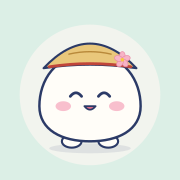
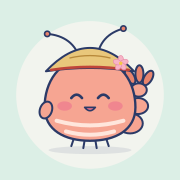
旅伴たびまる改成原創小蝦造型
- 鮭魚粉蝦殼、觸鬚、捲起的扇形尾巴、肚子條紋和小腳
- 三階段成長配件（櫻花髮夾、斗笠、圍巾背包）沿用
- 第一階段名稱改為「小蝦仔」，主畫面圖示同步更新

Claude-Session: https://claude.ai/code/session_018Buo1Lwc5LMrET6DTboqXp

Changed region(s): [[0.1944, 0.1389, 0.8611, 0.8333]]

diff --git a/js/companion.js b/js/companion.js
@@ -1,5 +1,5 @@
 // 旅伴「たびまる」：原創角色，三個成長階段
-// stage 1：麻糬小團子＋櫻花髮夾｜stage 2：戴上旅行斗笠｜stage 3：再加上圍巾和小背包
+// 原創角色：圓滾滾的小蝦。stage 1：小蝦仔＋櫻花髮夾｜stage 2：戴上旅行斗笠｜stage 3：再加上圍巾和小背包
 // mood: idle | happy | think
 
 const INK = '#2B3A67';
@@ -51,17 +51,51 @@ const pack = `
     <path d="M26 124 h18" stroke="${INK}" stroke-width="2"/>
   </g>`;
 
+const SHELL = '#F6A592';
+const SHELL_DK = '#E9846D';
+const BELLY = '#FFE6DC';
+
+// 蝦尾：從身體右下方往上捲，最後是扇形尾巴
+const tail = `
+  <g stroke="${INK}" stroke-width="3" stroke-linejoin="round">
+    <ellipse cx="160" cy="80" rx="6" ry="12" fill="${SHELL_DK}" transform="rotate(-30 160 80)"/>
+    <ellipse cx="174" cy="76" rx="6" ry="13" fill="${SHELL_DK}"/>
+    <ellipse cx="187" cy="82" rx="6" ry="12" fill="${SHELL_DK}" transform="rotate(30 187 82)"/>
+    <ellipse cx="173" cy="100" rx="12" ry="10" fill="${SHELL}"/>
+    <ellipse cx="172" cy="124" rx="15" ry="12" fill="${SHELL}"/>
+    <ellipse cx="160" cy="150" rx="19" ry="15" fill="${SHELL}"/>
+  </g>`;
+
+// 兩根長觸鬚
+const antennae = `
+  <g fill="none" stroke="${INK}" stroke-width="3" stroke-linecap="round">
+    <path d="M86 58 C80 30 60 18 36 16"/>
+    <path d="M110 57 C112 28 128 14 150 8"/>
+  </g>
+  <circle cx="36" cy="16" r="4" fill="${SHELL_DK}" stroke="${INK}" stroke-width="2.5"/>
+  <circle cx="150" cy="8" r="4" fill="${SHELL_DK}" stroke="${INK}" stroke-width="2.5"/>`;
+
+// 肚子下的小腳
+const legs = `
+  <g stroke="${INK}" stroke-width="3" stroke-linecap="round">
+    <path d="M76 172 l-4 12"/><path d="M92 175 l-2 12"/><path d="M108 175 l2 12"/><path d="M124 172 l4 12"/>
+  </g>`;
+
 export function companionSVG(stage = 1, mood = 'idle') {
   return `
   <svg class="tabimaru" viewBox="0 0 200 200" role="img" aria-label="旅伴たびまる">
-    <ellipse cx="100" cy="186" rx="58" ry="7" fill="${INK}" opacity=".10"/>
+    <ellipse cx="100" cy="190" rx="62" ry="6" fill="${INK}" opacity=".10"/>
+    ${tail}
     ${stage >= 3 ? pack : ''}
-    <ellipse cx="74" cy="176" rx="14" ry="9" fill="#FFFDF8" stroke="${INK}" stroke-width="3"/>
-    <ellipse cx="126" cy="176" rx="14" ry="9" fill="#FFFDF8" stroke="${INK}" stroke-width="3"/>
-    <path d="M100 52 C150 52 172 90 172 126 C172 160 140 176 100 176 C60 176 28 160 28 126 C28 90 50 52 100 52z"
-          fill="#FFFDF8" stroke="${INK}" stroke-width="3.5"/>
-    <ellipse cx="62" cy="126" rx="11" ry="7" fill="#F7B4C6" opacity=".85"/>
-    <ellipse cx="138" cy="126" rx="11" ry="7" fill="#F7B4C6" opacity=".85"/>
+    ${legs}
+    ${antennae}
+    <path d="M100 52 C148 52 168 90 168 126 C168 160 138 176 100 176 C62 176 32 160 32 126 C32 90 52 52 100 52z"
+          fill="${SHELL}" stroke="${INK}" stroke-width="3.5"/>
+    <path d="M50 146 Q100 160 150 146" fill="none" stroke="${BELLY}" stroke-width="6" stroke-linecap="round"/>
+    <path d="M64 162 Q100 172 136 162" fill="none" stroke="${BELLY}" stroke-width="6" stroke-linecap="round"/>
+    <ellipse cx="34" cy="130" rx="9" ry="13" fill="${SHELL}" stroke="${INK}" stroke-width="3" transform="rotate(20 34 130)"/>
+    <ellipse cx="62" cy="124" rx="11" ry="7" fill="#EE7F8E" opacity=".8"/>
+    <ellipse cx="138" cy="124" rx="11" ry="7" fill="#EE7F8E" opacity=".8"/>
     ${eyes(mood)}
     ${mouth(mood)}
     ${stage >= 3 ? scarf : ''}
@@ -70,4 +104,4 @@ export function companionSVG(stage = 1, mood = 'idle') {
   </svg>`;
 }
 
-export const STAGE_NAMES = { 1: '小團子', 2: '旅行斗笠', 3: '整裝出發' };
+export const STAGE_NAMES = { 1: '小蝦仔', 2: '旅行斗笠', 3: '整裝出發' };

diff --git a/sw.js b/sw.js
@@ -1,5 +1,5 @@
 // 離線快取：自家檔案網路優先（一推送就拿到新版，斷網時用快取），字型快取優先
-const VERSION = 'tabitomo-v0.1.0';
+const VERSION = 'tabitomo-v0.1.1';
 const SHELL = [
   './',
   'index.html',

diff --git a/README.md b/README.md
@@ -1,6 +1,6 @@
 # 旅伴日語 Tabitomo
 
-零基礎、每天 5 分鐘的遊戲化日語學習 PWA。玩家和原創旅伴「たびまる」一起從五十音學起，一路「旅行」到能在日本開口。
+零基礎、每天 5 分鐘的遊戲化日語學習 PWA。玩家和原創小蝦旅伴「たびまる」一起從五十音學起，一路「旅行」到能在日本開口。
 
 ## 目前內容：序章 v0.1
 
